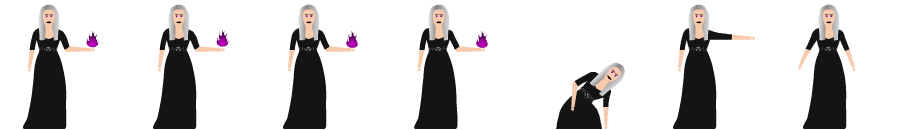
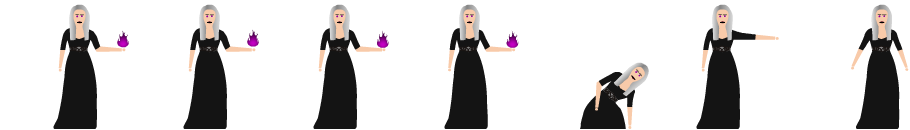
button and bullets

diff --git a/GDS_126/GDS_126_Engine/js/GameStates/level1.js b/GDS_126/GDS_126_Engine/js/GameStates/level1.js
@@ -86,10 +86,10 @@ var currentBullet = 0;
 for(let i=0; i<100; i++)
 {
 	bullets[i] = new GameObject({width:64, height:64})
-	//bullets[i].img.src="images/mrt.jpg"
-	bullets[i].makeSprite(playerData)
+	bullets[i].img.src="images/bullet.png"
+	//bullets[i].makeSprite(playerData)
 	bullets[i].y=-10000
-	bullets[i].changeState(`walk`)
+	//bullets[i].changeState(`walk`)
 }
 
 //console.log(bullets)
@@ -300,7 +300,8 @@ gameStates[`level1`] = function()
 	{
 		//if(bullets[i].overlap(stage)) bullets[i].vy+=1;
 		bullets[i].move()
-		bullets[i].play(function(){return}).drawSprite()
+		bullets[i].drawStaticImage([-70,-60,28,32])
+		//bullets[i].play(function(){return}).drawSprite()
 		//bullets[i].angle+=10
 		while(g1.collide(bullets[i].bottom) && bullets[i].vy>=0)
 		{

diff --git a/GDS_126/GDS_126_Engine/js/GameStates/menu.js b/GDS_126/GDS_126_Engine/js/GameStates/menu.js
@@ -3,7 +3,7 @@ This file contains all of the code for the Main Menu
 ----------------------------------*/
 
 var startButton = new GameObject({width:200});
-//startButton.img.src="images/mrt.jpg"
+startButton.img.src="images/button0001.png"
 startButton.hitBoxWidth=800
 console.log(startButton.collisionPoints.right)
 
@@ -26,15 +26,17 @@ gameStates[`menu`] =function(){
 
 		//Hover Effect Graffic
 		startButton.color = `yellow`
+		startButton.img.src="images/button0002.png"
 	}
 	else
 	{
 		//Default Button Graphic
 		startButton.color = `red`
+		startButton.img.src="images/button0001.png"
 	}
 	
 	menuBackground.drawStaticImage();
-	startButton.render()
+	startButton.drawStaticImage()
 }
 	
 	
